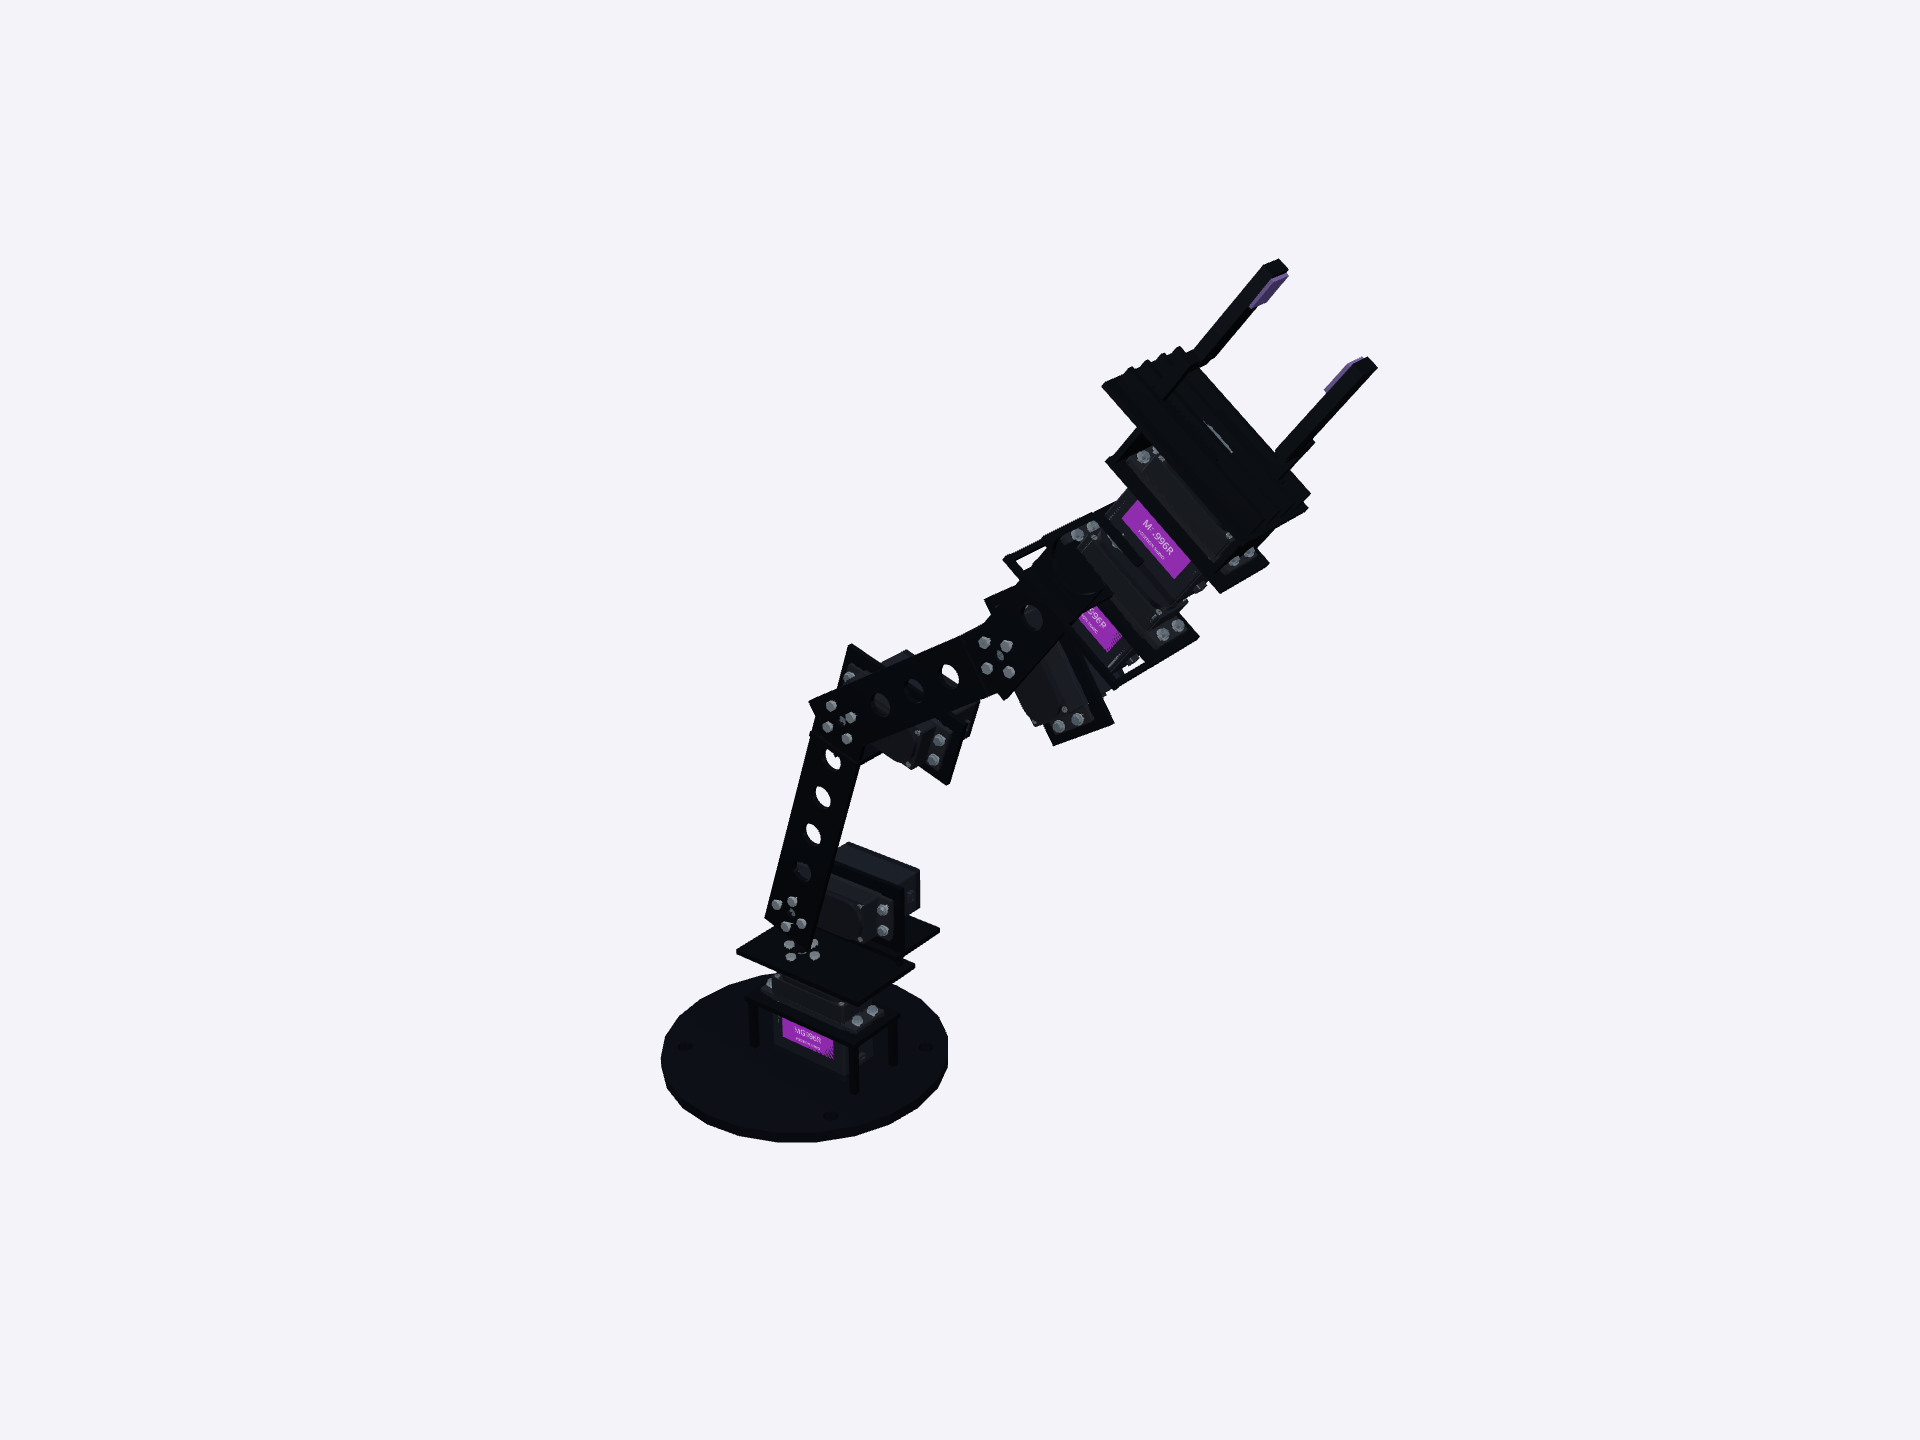
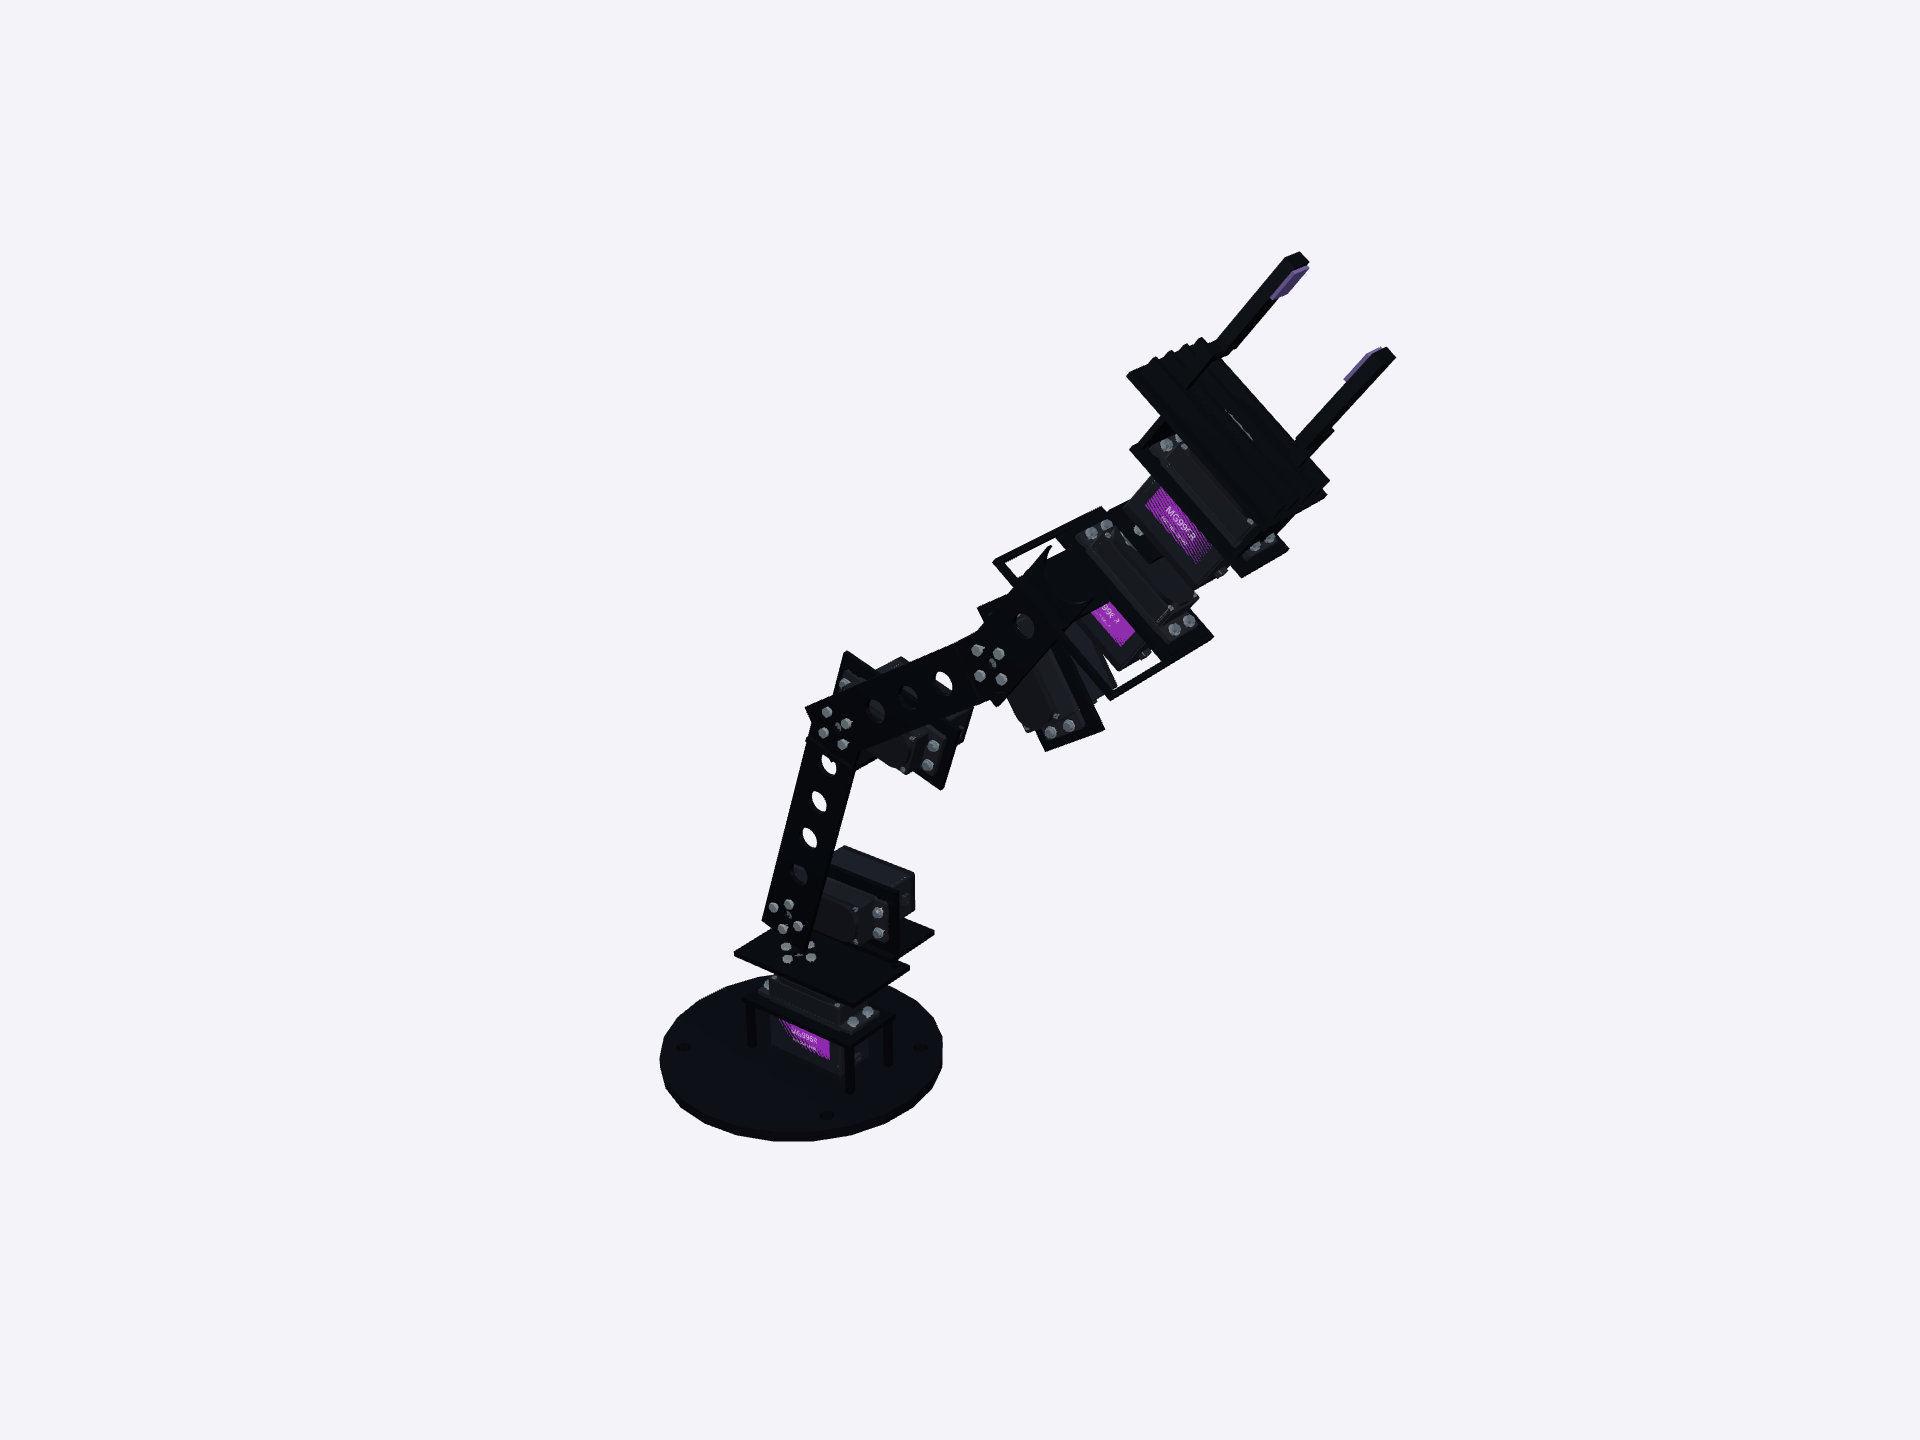
Clear wrist casings and distinguish rotated shared-face contacts

diff --git a/src/modules/rover-connector-intersection.ts b/src/modules/rover-connector-intersection.ts
@@ -1,10 +1,40 @@
-import{Box3,BufferAttribute,BufferGeometry,DoubleSide,Sphere,InstancedMesh,Matrix4,Mesh,Raycaster,Vector3,type TubeGeometry}from'three';
+import{Box3,BufferAttribute,BufferGeometry,DoubleSide,Sphere,Triangle,InstancedMesh,Matrix4,Mesh,Raycaster,Vector3,type TubeGeometry}from'three';
 const tolerance=1e-6,edges=new WeakMap<BufferGeometry,readonly[number,number][]>();
 function edgeIndices(g:BufferGeometry){const cached=edges.get(g);if(cached)return cached;const index=g.index,count=index?index.count:g.attributes.position.count,result:[number,number][]=[],seen=new Set<string>();for(let n=0;n<count;n+=3){const v=[0,1,2].map(k=>index?index.getX(n+k):n+k);for(let k=0;k<3;k++){const a=v[k],b=v[(k+1)%3],key=a<b?a+','+b:b+','+a;if(!seen.has(key)){seen.add(key);result.push([a,b]);}}}edges.set(g,result);return result;}
-function edgeHit(source:Mesh,target:Mesh,box:Box3,ray:Raycaster){const attribute=source.geometry.attributes.position;for(const[i,j]of edgeIndices(source.geometry)){const a=new Vector3().fromBufferAttribute(attribute,i).applyMatrix4(source.matrixWorld),b=new Vector3().fromBufferAttribute(attribute,j).applyMatrix4(source.matrixWorld);if(['x','y','z'].some(axis=>{const k=axis as'x'|'y'|'z';return a[k]<box.min[k]-tolerance&&b[k]<box.min[k]-tolerance||a[k]>box.max[k]+tolerance&&b[k]>box.max[k]+tolerance;}))continue;const length=a.distanceTo(b);if(length<=2*tolerance)continue;ray.near=tolerance;ray.far=length-tolerance;ray.set(a,b.clone().sub(a).normalize());if(ray.intersectObject(target,false).length)return true;ray.set(b,a.sub(b).normalize());if(ray.intersectObject(target,false).length)return true;}return false;}
+/** Shared-face contact is not penetration. For a closed target, split an
+ * edge at its surface crossings and require an interval strictly inside it.
+ * Open inspection bands retain the surface-crossing test. */
+function edgeHit(source:Mesh,target:Mesh,box:Box3,ray:Raycaster){
+ const attribute=source.geometry.attributes.position,g=target.geometry;
+ if(!g.boundingBox)g.computeBoundingBox();
+ const size=g.boundingBox!.getSize(new Vector3()),closed=g.type!=='TubeGeometry'&&!g.userData.inspectionOpenSurface&&Math.min(size.x,size.y,size.z)>tolerance;
+ const materials=Array.isArray(target.material)?target.material:[target.material],sides=materials.map(m=>m.side),insideRay=new Raycaster();
+ try{
+  if(closed)materials.forEach(m=>m.side=DoubleSide);
+  for(const[i,j]of edgeIndices(source.geometry)){
+   const a=new Vector3().fromBufferAttribute(attribute,i).applyMatrix4(source.matrixWorld),b=new Vector3().fromBufferAttribute(attribute,j).applyMatrix4(source.matrixWorld);
+   if(['x','y','z'].some(axis=>{const k=axis as'x'|'y'|'z';return a[k]<box.min[k]-tolerance&&b[k]<box.min[k]-tolerance||a[k]>box.max[k]+tolerance&&b[k]>box.max[k]+tolerance;}))continue;
+   const length=a.distanceTo(b);if(length<=2*tolerance)continue;
+   const direction=b.clone().sub(a).normalize();ray.near=tolerance;ray.far=length-tolerance;ray.set(a,direction);
+   const hits=ray.intersectObject(target,false);
+   if(closed){
+    if(!hits.length)continue;
+    const cuts=[0,...hits.map(h=>h.distance).filter((d,n,all)=>!n||d-all[n-1]>tolerance),length];
+    for(let n=1;n<cuts.length;n++)if(cuts[n]-cuts[n-1]>2*tolerance&&inside(a.clone().addScaledVector(direction,(cuts[n]+cuts[n-1])/2),target,insideRay))return true;
+   }else{
+    if(hits.length)return true;
+    ray.set(b,a.clone().sub(b).normalize());if(ray.intersectObject(target,false).length)return true;
+   }
+  }
+  return false;
+ }finally{materials.forEach((m,i)=>m.side=sides[i]);}
+}
 function sampleSurface(mesh:Mesh){const g=mesh.geometry,p=g.attributes.position,index=g.index,count=index?index.count:p.count;if(!g.boundingBox)g.computeBoundingBox();const size=g.boundingBox!.getSize(new Vector3()),closed=g.type!=='TubeGeometry'&&!g.userData.inspectionOpenSurface&&Math.min(size.x,size.y,size.z)>tolerance;for(let n=0;n<count;n+=3){const v=[0,1,2].map(k=>new Vector3().fromBufferAttribute(p,index?index.getX(n+k):n+k).applyMatrix4(mesh.matrixWorld)),normal=v[1].clone().sub(v[0]).cross(v[2].clone().sub(v[0]));if(normal.lengthSq()<1e-20)continue;const point=v[0].clone().add(v[1]).add(v[2]).divideScalar(3);return closed?point.addScaledVector(normal.normalize(),-4*tolerance):point;}return new Vector3().setFromMatrixPosition(mesh.matrixWorld);}
 
-function inside(point:Vector3,mesh:Mesh,ray:Raycaster){const g=mesh.geometry;if(g.type==='TubeGeometry'||g.userData.inspectionOpenSurface)return false;if(!g.boundingBox)g.computeBoundingBox();const size=g.boundingBox!.getSize(new Vector3());if(Math.min(size.x,size.y,size.z)<=tolerance)return false;const materials=Array.isArray(mesh.material)?mesh.material:[mesh.material],sides=materials.map(m=>m.side);try{materials.forEach(m=>m.side=DoubleSide);ray.set(point,new Vector3(.873,.327,.363).normalize());ray.near=0;ray.far=Infinity;const hits=ray.intersectObject(mesh,false).map(h=>h.distance);if(hits.some(d=>d<=tolerance))return false;return hits.filter((d,i,a)=>!i||Math.abs(d-a[i-1])>tolerance).length%2===1;}finally{materials.forEach((m,i)=>m.side=sides[i]);}}
+function inside(point:Vector3,mesh:Mesh,ray:Raycaster){const g=mesh.geometry;if(g.type==='TubeGeometry'||g.userData.inspectionOpenSurface)return false;if(!g.boundingBox)g.computeBoundingBox();const size=g.boundingBox!.getSize(new Vector3());if(Math.min(size.x,size.y,size.z)<=tolerance)return false;// A parity ray can miss a near-zero crossing on a shared face after rotation.
+ const p=g.attributes.position,index=g.index,count=index?index.count:p.count,triangle=new Triangle(),closest=new Vector3();
+ for(let n=0;n<count;n+=3){triangle.a.fromBufferAttribute(p,index?index.getX(n):n).applyMatrix4(mesh.matrixWorld);triangle.b.fromBufferAttribute(p,index?index.getX(n+1):n+1).applyMatrix4(mesh.matrixWorld);triangle.c.fromBufferAttribute(p,index?index.getX(n+2):n+2).applyMatrix4(mesh.matrixWorld);if(triangle.closestPointToPoint(point,closest).distanceToSquared(point)<=tolerance*tolerance)return false;}
+ const materials=Array.isArray(mesh.material)?mesh.material:[mesh.material],sides=materials.map(m=>m.side);try{materials.forEach(m=>m.side=DoubleSide);ray.set(point,new Vector3(.873,.327,.363).normalize());ray.near=0;ray.far=Infinity;const hits=ray.intersectObject(mesh,false).map(h=>h.distance);if(hits.some(d=>d<=tolerance))return false;return hits.filter((d,i,a)=>!i||Math.abs(d-a[i-1])>tolerance).length%2===1;}finally{materials.forEach((m,i)=>m.side=sides[i]);}}
 /** Inspection-only triangle edge/solid containment check. Reads current vertex
  * buffers, so a retained, deformed tube is not checked at its original shape.
  * When both meshes are tubes, both sides are split into exact open bands;

diff --git a/src/modules/RoverArmMechanics.tsx b/src/modules/RoverArmMechanics.tsx
@@ -14,7 +14,7 @@ const plateOptions={depth:2.4,bevelEnabled:false},baseOptions={depth:D.baseThick
 function bore(s:Shape,x:number,y:number,r:number){const p=new Path();p.absarc(x,y,r,0,Math.PI*2,true);s.holes.push(p);}
 function rect(w:number,h:number,x=0,y=0){const s=new Shape();s.moveTo(x-w/2,y-h/2);s.lineTo(x+w/2,y-h/2);s.lineTo(x+w/2,y+h/2);s.lineTo(x-w/2,y+h/2);s.closePath();return s;}
 function hornPlate(w:number,h:number,cx=0,cz=0){const s=rect(w,h,cx,-cz);bore(s,0,0,2.3);for(const[x,z]of[[7.2,0],[-7.2,0],[0,7.2],[0,-7.2]])bore(s,x,-z,1.6);return s;}
-function parts(){const cradle=rect(62,31,10.5),aperture=new Path();aperture.moveTo(-10.1,-10.1);aperture.lineTo(31.1,-10.1);aperture.lineTo(31.1,10.1);aperture.lineTo(-10.1,10.1);aperture.closePath();cradle.holes.push(aperture);for(const[x,,z]of raServoMounts)bore(cradle,x,-z,1.35);const base=new Shape();base.absarc(0,0,D.baseRadius,0,Math.PI*2,false);for(const a of raArmAnchors)bore(base,a.x,-a.z,3.3);const link=(length:number)=>{const s=new Shape();s.moveTo(-12.5,-12.5);s.lineTo(12.5,-12.5);s.lineTo(12.5,length);s.lineTo(11.8,length);s.absarc(0,length,11.8,0,Math.PI,true);s.lineTo(-12.5,length);s.closePath();bore(s,0,0,2.3);for(const y of[-7.2,7.2])bore(s,0,y,1.6);for(const x of[-7.2,7.2])bore(s,x,0,1.6);for(let y=24;y<length-14;y+=20)bore(s,0,y,5);return s;};const pinion=raGripPinion();const palm=rect(74,42);bore(palm,0,0,5.8);const hub=new Shape();hub.absarc(0,0,3.8,0,Math.PI*2,false);bore(hub,0,0,2.3);return{cradle,base,palm,hub,baseHorn:hornPlate(68,38,10.5,-3),rollHorn:hornPlate(25,25),upper:link(D.upperLink),fore:link(D.forearm),wrist:link(D.wrist),pinion,leftTooth:raGripTooth(-1),rightTooth:raGripTooth(1)};}
+function parts(){const cradle=rect(62,31,10.5),aperture=new Path();aperture.moveTo(-10.1,-10.1);aperture.lineTo(31.1,-10.1);aperture.lineTo(31.1,10.1);aperture.lineTo(-10.1,10.1);aperture.closePath();cradle.holes.push(aperture);for(const[x,,z]of raServoMounts)bore(cradle,x,-z,1.35);const base=new Shape();base.absarc(0,0,D.baseRadius,0,Math.PI*2,false);for(const a of raArmAnchors)bore(base,a.x,-a.z,3.3);const link=(length:number)=>{const s=new Shape();s.moveTo(-12.5,-12.5);s.lineTo(12.5,-12.5);s.lineTo(12.5,length);s.lineTo(11.8,length);s.absarc(0,length,11.8,0,Math.PI,true);s.lineTo(-12.5,length);s.closePath();bore(s,0,0,2.3);for(const y of[-7.2,7.2])bore(s,0,y,1.6);for(const x of[-7.2,7.2])bore(s,x,0,1.6);for(let y=24;y<length-14;y+=20)bore(s,0,y,5);return s;};const pinion=raGripPinion();const palm=rect(74,42);bore(palm,0,0,5.8);const hub=new Shape();hub.absarc(0,0,3.8,0,Math.PI*2,false);bore(hub,0,0,2.3);return{cradle,base,palm,hub,baseHorn:hornPlate(68,38,10.5,-3),rollHorn:hornPlate(25,38,0,-6.75),upper:link(D.upperLink),fore:link(D.forearm),wrist:link(D.wrist),pinion,leftTooth:raGripTooth(-1),rightTooth:raGripTooth(1)};}
 
 /** Detailed authored mechanical hierarchy. Angles are calibrated mechanical pose,
  * never a claim that a particular microsecond pulse produces this position. */
@@ -51,9 +51,9 @@ function RoverArmMechanics({selected,choose,angles=raArmNeutral,assembly}:Props)
  {flatLink('elbow',s.fore,D.forearm)}
  <group position={[0,D.forearm,0]}><group rotation={[Math.PI/2,0,0]}>{servo('pitch',a(3))}</group>
  <group name="ra-arm-pitch-output" rotation={[0,0,a(3)]}>
- {flatLink('pitch',s.wrist,D.wrist)}{tag('ra-arm-pitch-adapter',<>{[-19,40].map(x=>box('ra-arm-pitch-adapter',[x,D.wrist-19,-7],[2.4,2.4,39]))}{box('ra-arm-pitch-adapter',[10.5,D.wrist-19,11.3],[62,2.4,2.4])}{box('ra-arm-pitch-adapter',[0,D.wrist-19,8],[25,2.4,6])}</>)}
- <group position={[0,D.wrist,-25]}>{servo('roll',a(4))}<group name="ra-arm-roll-output" rotation={[0,a(4),0]}>
- {tag('ra-arm-roll-link',<>{horizontalHorn('ra-arm-roll-link',s.rollHorn)}{box('ra-arm-roll-link',[0,25,-15],[25,40,2.4])}</>)}
+ {flatLink('pitch',s.wrist,D.wrist)}{tag('ra-arm-pitch-adapter',<>{[-21.7,42.7].map(x=>box('ra-arm-pitch-adapter',[x,D.wrist-17.8,-21.5],[2.4,2.4,68]))}{box('ra-arm-pitch-adapter',[10.5,D.wrist-17.8,11.3],[66.8,2.4,2.4])}{box('ra-arm-pitch-adapter',[0,D.wrist-17.8,8.5],[25,2.4,5])}</>)}
+ <group position={[0,D.wrist,D.rollOffset]}>{servo('roll',a(4))}<group name="ra-arm-roll-output" rotation={[0,a(4),0]}>
+ {tag('ra-arm-roll-link',<>{horizontalHorn('ra-arm-roll-link',s.rollHorn)}{box('ra-arm-roll-link',[0,(6+D.palm-16.6)/2,-16.7],[25,D.palm-22.6,2.4])}</>)}
  <group position={[0,D.palm,0]}>{servo('grip',a(5))}
  {tag('ra-arm-palm',<><mesh position={[0,4.8,0]} rotation={[-Math.PI/2,0,0]}><extrudeGeometry args={[s.palm,plateOptions]}/><meshStandardMaterial {...mat('ra-arm-palm')}/></mesh>{[-18.8,33.5].map(x=>box('ra-arm-palm',[x,-6,0],[2.4,24,28]))}{[-1,1].map(side=><group key={side}>{box('ra-arm-palm',[0,11,side*15],[70,8,2.4])}{box('ra-arm-palm',[0,11,side*5],[70,8,2.4])}</group>)}</>)}
  <group rotation={[0,a(5),0]}>{tag('ra-arm-pinion',<><mesh position={[0,8,0]} rotation={[-Math.PI/2,0,0]}><extrudeGeometry args={[s.pinion,plateOptions]}/><meshStandardMaterial {...mat('ra-arm-pinion','#9cabb9')}/></mesh><mesh position={[0,3.6,0]} rotation={[-Math.PI/2,0,0]}><extrudeGeometry args={[s.hub,hubOptions]}/><meshStandardMaterial {...mat('ra-arm-pinion','#9cabb9')}/></mesh></>)}</group>

diff --git a/src/data/rover-arm-mechanics.ts b/src/data/rover-arm-mechanics.ts
@@ -1,6 +1,6 @@
 /** Authored teaching arm, millimetres. Not a dimensional copy of a specific kit.
  * Servo pulse-to-angle calibration is deliberately separate from these joint angles. */
-export const raArmDimensions={baseRadius:63,baseThickness:5,shoulderHeight:76,upperLink:104,forearm:92,wrist:57,palm:45};
+export const raArmDimensions={baseRadius:63,baseThickness:5,shoulderHeight:76,upperLink:104,forearm:92,wrist:57,rollOffset:-40,palm:52};
 export const raArmNeutral=[0,-.3,-.7,.35,0,.25] as const;
 export const raArmJoints=[
  {id:'base',label:'Base yaw',axis:'Y',connection:'Rotates the complete shoulder support around the secured base.'},

diff --git a/docs/3D-WORKSHOP-PROGRESS.md b/docs/3D-WORKSHOP-PROGRESS.md
@@ -1923,3 +1923,17 @@ Directory-35 combined cold-start UI checkpoint: added optional read-only state/s
 A separate fresh combined-chooser run completes every rover fitting through actual buttons: thirty board, twenty-nine mechanical, eighteen sensor and forty-eight connection fits (125 total). It checks intermediate animation progress, attached labels, fitting switch lockouts, pause/resume, phase transitions and one mounted canvas. The completed rover passes lifted-wheel rotation with stationary chassis, floor driving with sampled range, source shutdown/coasting, switching to an untouched arm and restoring completed rover progress. Log: /tmp/atlas-ra-combined-rover-cold-flow.log. This replaces the narrower prefilled-boundary test as evidence for the full combined rover UI path, without claiming continuous collision verification.
 
 Both native runs pass without page errors. Targeted strict TypeScript for the combined component/observer fixture passes. Reviewed the resulting full arm operation screenshot. The candidate remains unregistered pending hardware contact review, animation/performance tuning and final routed/layout QA; published count stays 83/150, with 61 Phase 2 guides/workshops still pending and the full 211-guide goal active.
+
+Directory-35 wrist-casing correction checkpoint: the expanded non-tube hardware diagnostic exposed genuine cross-component overlaps at the wrist. Moved the roll assembly rearward from -25 to -40 mm and increased gripper mounting height from 45 to 52 mm. Reworked the pitch adapter into longer outside rails and moved the roll support behind the gripper cradle, extending its lower plate and setting the support to meet the cradle. The roll/gripper servo cases now clear their neighbouring support plates rather than occupying them. Regenerated and visually reviewed the arm-kit reference from the same updated solids.
+
+Before changing the contact checker, all 39 individual/combined poses pass the updated harness check, including all main-wire pairs and organizer/station contacts; the targeted wrist-case separation assertions in the separate 39-pose hardware diagnostic also pass. Reports/logs: /tmp/atlas-ra-wrist-loom-39-clear.json, /tmp/atlas-ra-wrist-loom-clearance.log and /tmp/atlas-ra-wrist-hardware-39.log. The diagnostic reports all different-owner, non-tube hardware contacts, expands individual instances and requires every mesh to have a selectable owner. It does not label all reported contacts as errors or certify the complete assembly collision-free.
+
+The diagnostic revealed an independent verifier bug: two merely touching boxes produced false contacts in 77 of 100 common rotations. Closed-target edge checks now require a strictly interior interval, with an actual world-space triangle-distance boundary check before solid-parity testing. This distinguishes a shared face from penetration after rotation; open inspection-band surface checks retain their previous behaviour. The regression covers 100 common rotations/translations at the workshop scale, touching faces, positive gaps, true penetration, both argument orders and restoration of material sides. All 123 arm/rover tests pass; the strengthened 13-test intersection suite also passes.
+
+With the corrected checker, native neutral/base-rotation hardware runs retain the same 317 contact instances / 154 owner pairs across all three poses, removing the earlier spurious contact changes from rigid rotation. The targeted wrist-case criterion passes all three. Current-checker harness regression passes the same initial three poses with no wire/hardware, wire-pair or organizer contacts. Log: /tmp/atlas-ra-wrist-corrected-loom-three.log. Full 39-pose current-checker and final fitting-travel reruns remain after the outstanding joint-interface review.
+
+Native picks pass the actual pitch adapter, roll support and both wrist servo cases: owned-surface highlight, attached labels and retained geometry buffers. Log: /tmp/atlas-ra-wrist-picking.log. Targeted strict TypeScript passes. The preceding combined cold-start UI flows validate the unchanged controller/workflow logic; they predate this geometry revision and are not claimed as final routed-model QA.
+
+Adjacent-link interfaces (including shoulder/elbow and elbow/pitch plates), wider mechanical contact review, final current-geometry travel checks, animation tuning and routed/layout QA remain. The candidate stays private, published workshops stay 83/150, Phase 2 remains 61 pending guides/workshops, and the full 211-guide goal stays active.
+
+Final production Vite build passes after regenerating the arm-kit asset (existing large-chunk warning retained). The dist output includes the updated reference image.
